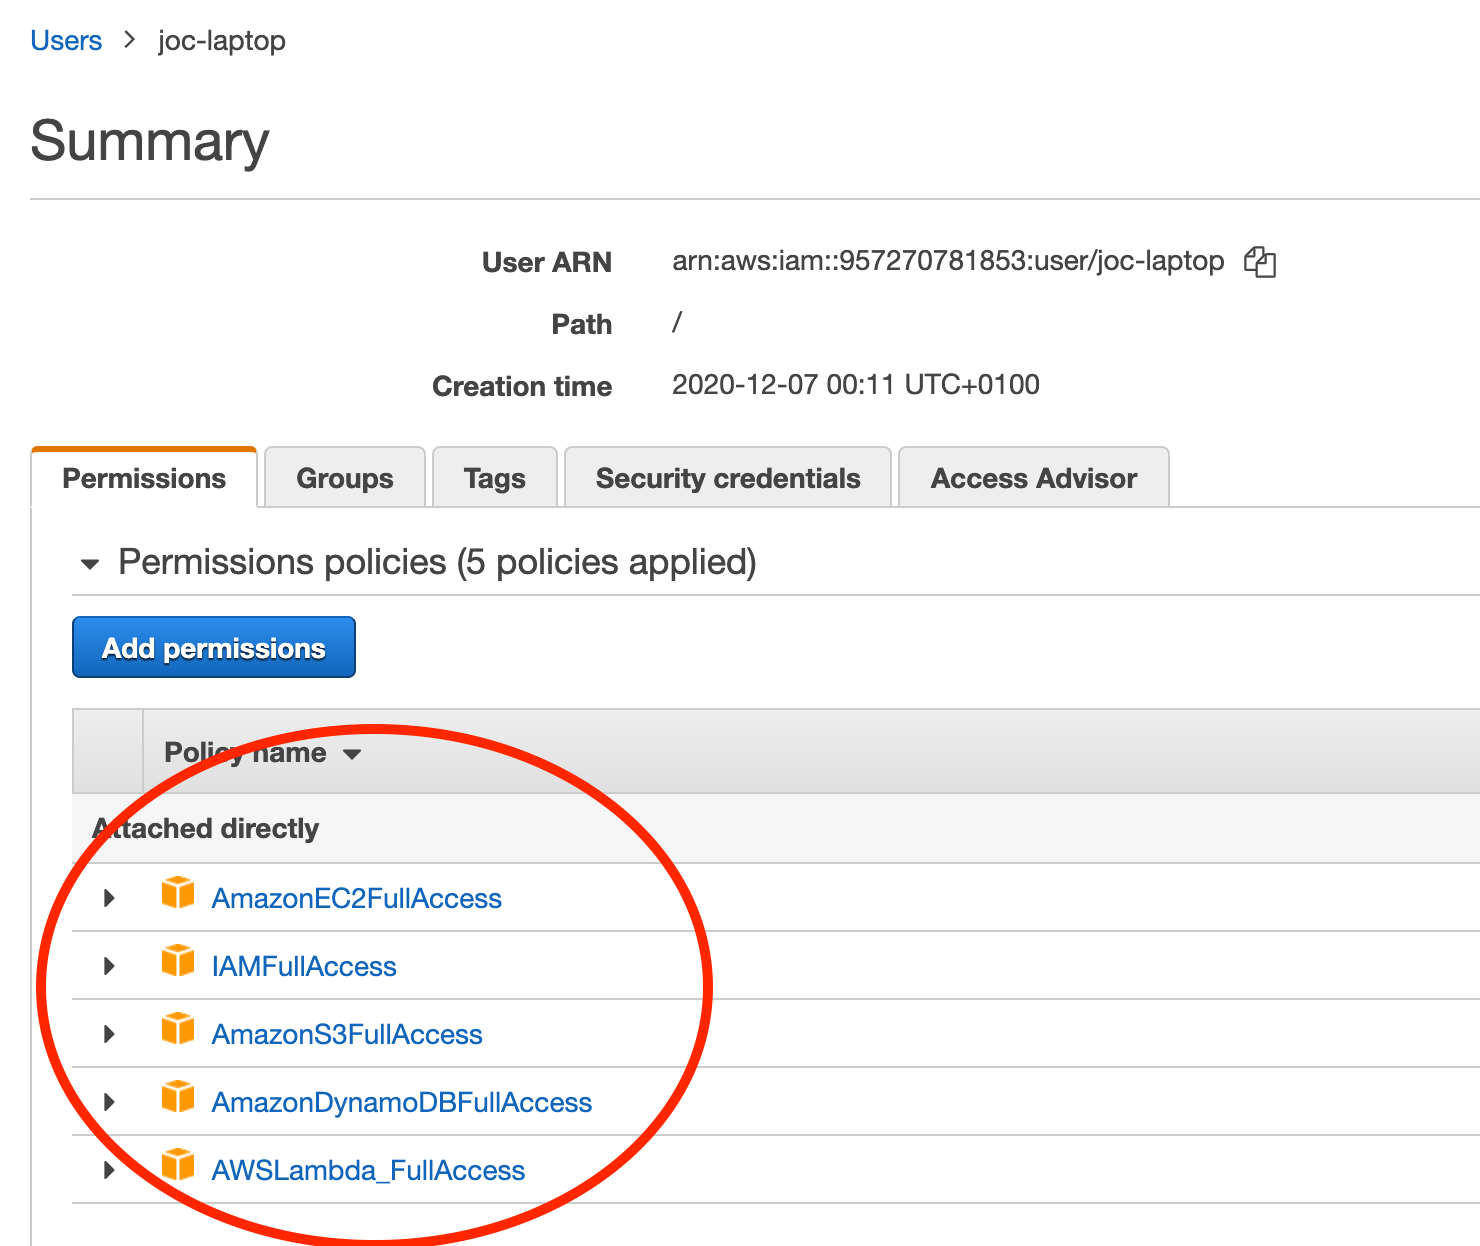
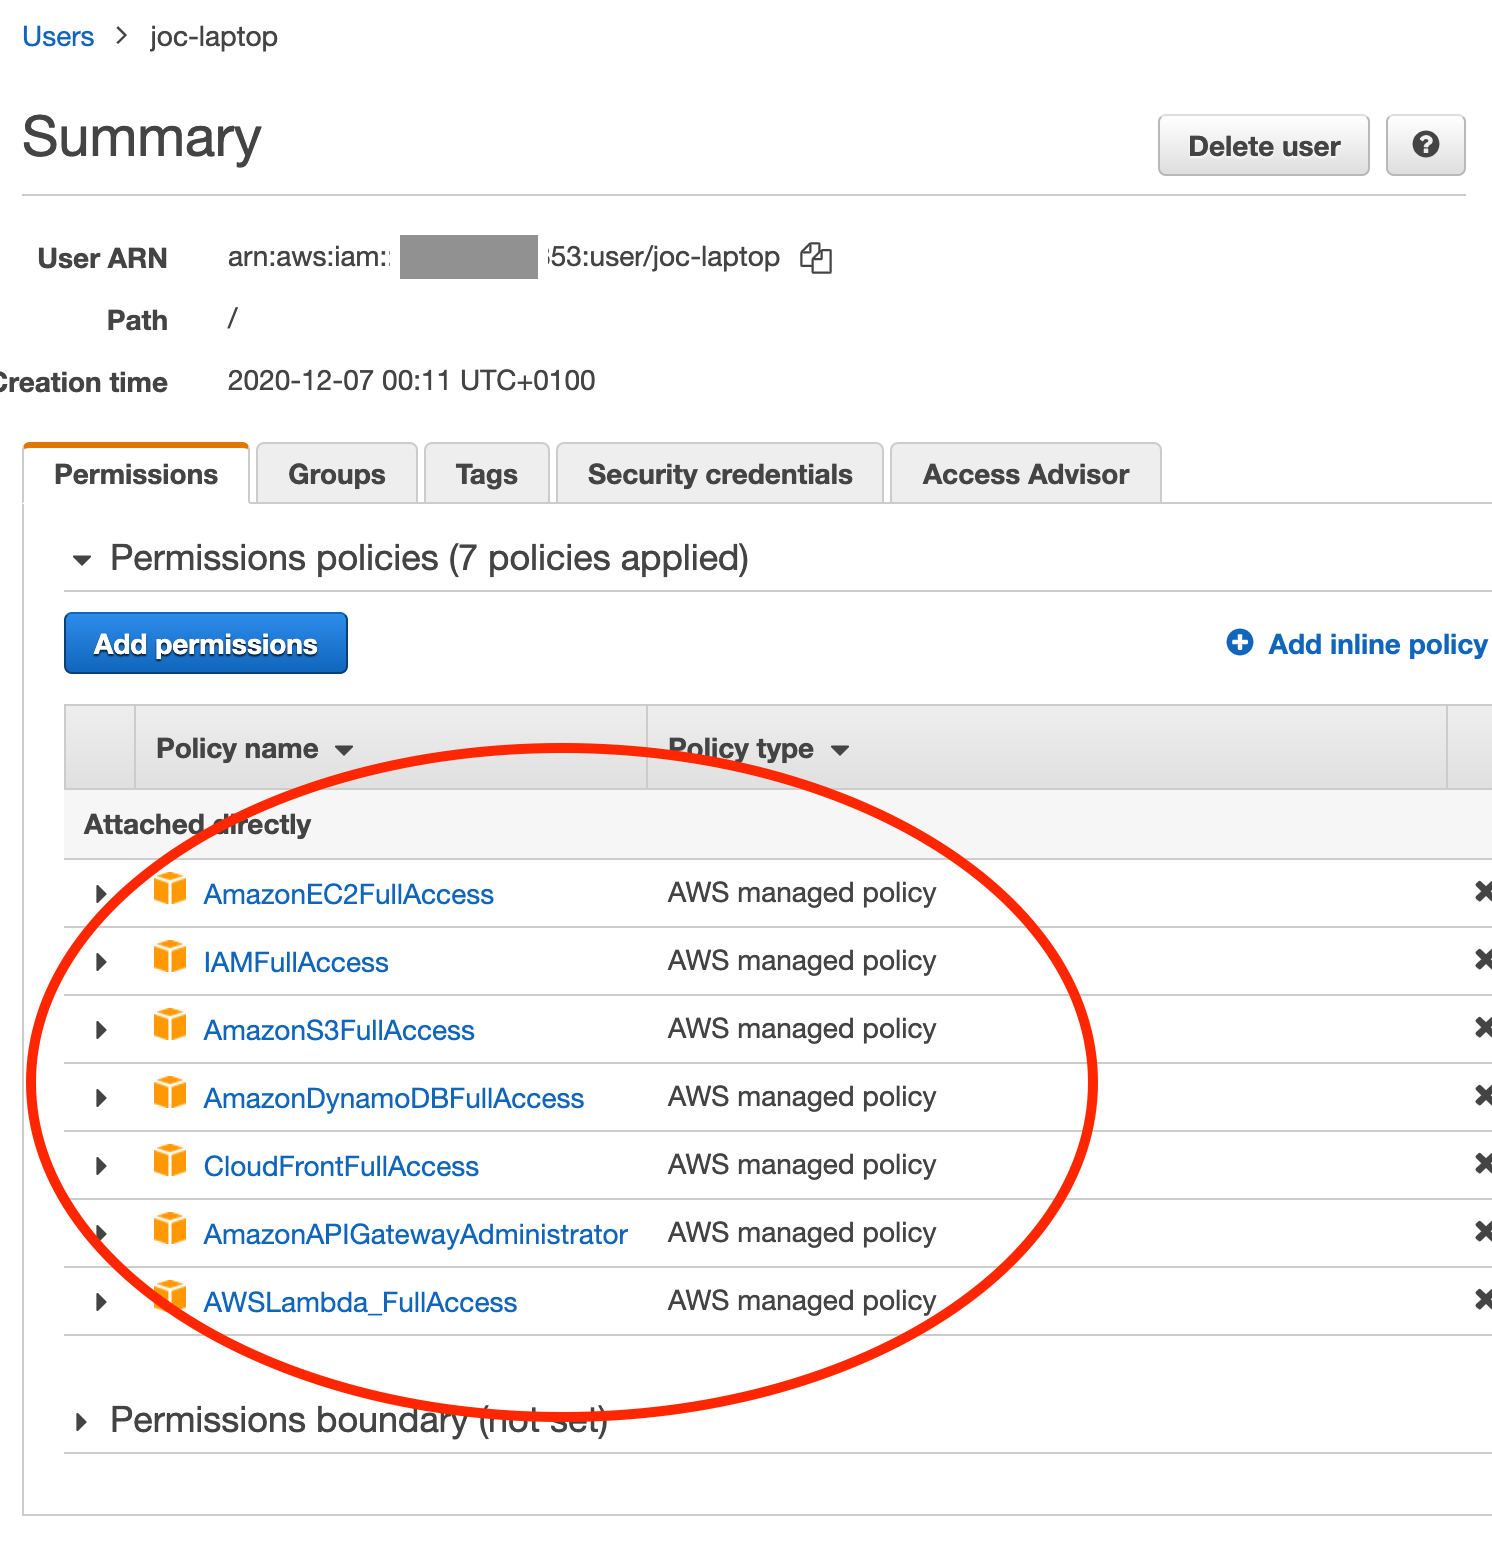
Added demo video and better docs

diff --git a/README.md b/README.md
@@ -2,7 +2,7 @@
 
 This system allows you to stream SRT (h264 + AAC) and create the live ABR in a fully distributed way. This implementation uses [AWS Lambdas](https://aws.amazon.com/lambda/) to perform a segmented serverless transcoding, this allow us to instantly scale to any type of renditions and transcoding settings, tested up to 2160p@60fps (h264 - AAC).
 
-[![How it works video](/docs/pics/LDE-demo-intro.jpg)](https://youtu.be/f7TkdI4f3jU)
+[![How it works video](/docs/pics/lde-intro-video.jpg)](https://youtu.be/f7TkdI4f3jU)
 
 This [player demo page](https://jordicenzano.github.io/serverless-distributed-live-platform/) allows you to simple create playback URLs for this platform, and also includes a player to facilitate testing (based on [VideoJS](https://videojs.com/))
 
@@ -138,11 +138,13 @@ This stateless function performs the following actions:
   }
 }
 ```
+Note: To tune h264 transcode you can add the item `video_x264_params` to each rendition
+
 - Applies that config and transcodes the input chunk (the one specified un the [S3 event](https://docs.aws.amazon.com/AmazonS3/latest/dev/notification-content-structure.html))
 
 - It upload the resulting renditions S3, following the read config
 
-- It updates the DynamoDB chunks table with the recently created chunks info, see entry example:
+- It updates the DynamoDB chunks table with the recently created chunks info, see an entry example:
 ```json
 {
   "duration-ms": 2002,
@@ -174,17 +176,17 @@ https://API-CDN-PREPEND/video/streamId/renditionID/chunklist.m3u8?SEE-QS-POSSIBI
 ```
 
 Valid querystring (QS) parameters are:
-- `liveType`: Indicates what manifest we want (`live`, `event`, `vod`)
+- `liveType` (default = `live`): Indicates what manifest we want (`live`, `event`, `vod`)
   - **This param allows you to create (chunk accurate) highlights before live ends (`vod`), or activate live rewind (`event`)**
-- `chunksNumber`: Indicate how many chunks we want in the response
+- `chunksNumber` (default = 3): Indicate how many chunks we want in the response
   - Only valid if `liveType == live`
-- `latency`: Indicate how many seconds of latency you want to add.
-  - This is recommended to be equal or bigger to the last possible transcoding time for your longer chunk
-- `chunksLatency`: Indicate how many chunk of latency you want to add.
+- `latency` (default = 20): Indicate how many seconds of latency you want to add.
+  - This is recommended to be equal or bigger to the transcoding time for your longer / more complex chunk
+- `chunksLatency` (default = 0): Indicate how many chunks of latency you want to add, so the last chunk in your manifest will ne the last one generated - `chunksLatency` chunks
   - This is recommended to be equal or bigger to the last possible transcoding time for your longer chunk
   - If you set `latency` takes precedence over this
-- `fromEpochS`: epoch time in seconds to start getting chunks
-- `toEpochS`: epoch time in seconds to stop getting chunks
+- `fromEpochS` (default = -1): epoch time in seconds to start getting chunks
+- `toEpochS` (default = -1): epoch time in seconds to stop getting chunks
   - Only valid if `liveType == vod`
   - **Very useful to create VOD highlights from an ongoing live stream**, in combination with `fromEpochS`
 
@@ -221,7 +223,7 @@ We we also activated the cache on [API Gateway](https://aws.amazon.com/api-gatew
 
 After proving the system works we gathered few basic metrics, for that we used 2 types of live streams:
 
-- **HM**: High motion stream, it is a professionally produced sports VOD stream (that we transformed in a live stream using transmuxing and loop)
+- **HM**: High motion stream, it is a professionally produced 4K HDR sports VOD stream (that we transcoded to the desired settings and converted into a live stream using transmuxing and loop)
   - 2160p@59.94 20Mbps h264-AAC, 2s GOP
 - **LM**: Low motion stream, generated from IPhone Xs with [Larix](https://softvelum.com/larix/) app
   - 2160p@30 12Mbps h264-AAC, 2s GOP
@@ -285,6 +287,7 @@ We are assuming you have [AWS CLI](https://aws.amazon.com/cli/) installed and co
 *Note: Please follow the order below, there are some dependencies on those steps*
 
 - Modify the vars `AWS_REGION` and `BASE_NAME` from [base.sh](./scripts/base.sh) with your region and base name
+- [Allow RW permissions to your local AWS CLI user](./doc/../docs/local-aws-cli-user-permissions.md)
 - [Set up edge machine](./docs/setup-edge.md)
 - [Set up S3 bucket](./docs/setup-s3.md)
 - [Give EC2 RW permissions to your S3](./docs/grant-s3-full-access-to-ec2.md)
@@ -295,18 +298,17 @@ We are assuming you have [AWS CLI](https://aws.amazon.com/cli/) installed and co
 - [Set up API Gateway (and manifest lambda trigger)](./docs/setup-api-gateway.md)
 
 # Test / Demo
-This video will show you how to do some initial tests
+This video will show you how to do some initial tests:
+[![Demo video](./docs/pics/lde-demo-video.png)](https://youtu.be/qRWk_fXULUE)
 
-Note:
-- The API CDN prepend will have this format: `https://API-ID.execute-api.AWS-REGION.amazonaws.com/prod/video`
-- You can get the API CDN prepend doing:
+Notes:
+- The API CDN prepend will have this format: `https://API-ID.execute-api.AWS-REGION.amazonaws.com/prod/video`. You can get the API CDN prepend doing:
 ```
 cd scripts
 ./get-api-cdn-prepend.sh
 ```
-
-[![Demo video](https://img.youtube.com/vi/ESMNOfE2aZY/0.jpg)](https://www.youtube.com/watch?v=ESMNOfE2aZY)
-TODO: Record the video
+- You can use this [player demo page](https://jordicenzano.github.io/serverless-distributed-live-platform/) to generate playback URLs
 
 # TODOs
 - Create a cloudformation template for AWS infrastructure. Or create a simple and better AWS CLI script
+- Use a storage more adequate for live streaming than S3

diff --git a/docs/local-aws-cli-user-permissions.md b/docs/local-aws-cli-user-permissions.md
@@ -1,0 +1,20 @@
+# Give EC2 RW permissions to your S3
+This will allow your EC2 edge machine to write into your new S3 bucket
+
+## Pre-requisite
+You should allow your local AWS CLI user to perform some actions on your AWS resources
+
+![Local user needed policies](/docs/pics/grant-local-user-IAM-access.png)
+
+*Note: I recommend remove some of those policies after the inital set up (specially IAM full access policy). This is just an easy and unsafe way to avoid a permissions hassle*
+
+# Actions
+- Create an IAM role with S3 full access
+```bash
+./create-s3-full-access-for-ec2.sh
+```
+- Verify your edge machine is running and assign that created role to your Edge EC2 machine
+```bash
+# It will ask you for the instanceID of your edge machine, replace i-XXXXXXXX for the right InstanceID
+./attach-role-to-ec2.sh i-XXXXXXXX
+```

diff --git a/docs/grant-s3-full-access-to-ec2.md b/docs/grant-s3-full-access-to-ec2.md
@@ -1,14 +1,6 @@
-# Give EC2 RW permissions to your S3
-This will allow your EC2 edge machine to write into your new S3 bucket
+# Grant EC2 edge full access to your S3
+Your EC2 edge machine need to upload (write) chunks to S3, so it needs write rights. To allow that:
 
-## Pre-requisite
-You should allow your local AWS CLI user to perform some actions on your AWS resources
-
-![Local user needed policies](/docs/pics/grant-local-user-IAM-access.png)
-
-*Note: I recommend remove some of those policies after the inital set up (specially IAM full access policy). This is just an easy and unsafe way to avoid a permissions hassle*
-
-# Actions
 - Create an IAM role with S3 full access
 ```bash
 ./create-s3-full-access-for-ec2.sh

diff --git a/docs/setup-cloudfront.md b/docs/setup-cloudfront.md
@@ -1,8 +1,7 @@
 # Set Cloudfront as media CDN
 
 - Create CloudFront global CDN layer on top of S3
-- 
-You can do that by executing:
+- You can do that by executing:
 ```bash
 cd scripts
 ./create-cloudfront.sh
